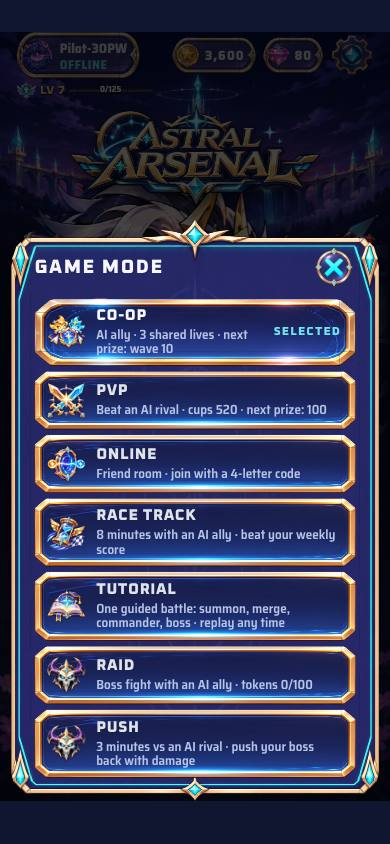
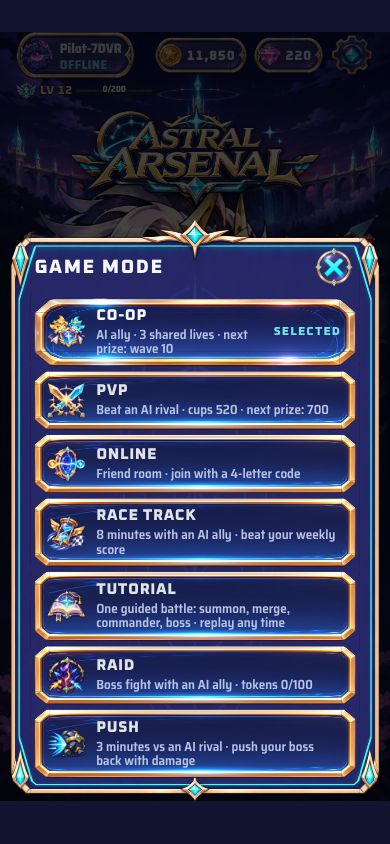
Sửa lượt 2: Push ép cuối trận (K nhân đôi mỗi 12 s từ giây 110), nhãn Push hết đè, mốc cúp kế = mốc chưa đạt + phát bù, rương ×N phát đủ, Raid bậc 2 = 22 000, quầng huy hiệu song sinh; tài liệu, ảnh đã xem
Claude-Session: https://claude.ai/code/session_01KQA7LFBkcdkiPiLcwYs7V2

diff --git a/thap/js/chedo-dd.js b/thap/js/chedo-dd.js
@@ -228,7 +228,19 @@ const CUP = {
     return s;
   },
   ds: () => Object.keys(CUPC.moc).map(Number).sort((a, b) => a - b),
-  ke() { const s = this.st(); return this.ds().find(m => !s.nhan[m]) || 0; },
+  ke() { const s = this.st(); return this.ds().find(m => m > s.max && !s.nhan[m]) || 0; }, // 12/11 lượt 2: mốc CHƯA ĐẠT kế tiếp (trước: mốc chưa nhận thấp nhất → tài khoản được bơm cúp hiện "next prize: 100" dù đang 520 cúp)
+  // phát mọi mốc đã đạt (cúp cao nhất ≥ mốc) mà chưa nhận — ghi cờ trước khi phát
+  phatMoc() {
+    const s = this.st(), ra = { vang: 0, ngoc: 0, the: [], tt: 0 }, moc = [];
+    for (const m of this.ds()) { if (s.max < m || s.nhan[m]) continue; s.nhan[m] = 1; moc.push(m); CD.gop(ra, CD.phat(CUPC.moc[m], 'cdcup' + m, 'cup')); }
+    return { ra, moc };
+  },
+  // phát bù ở HOME: mốc đã vượt mà chưa nhận (cúp tăng không qua trận: bơm thử / gộp hồ sơ máy khác) — trận thường đã phát ở ket()
+  bu() {
+    const s = this.st(); if (!this.ds().some(m => s.max >= m && !s.nhan[m])) return null;
+    const r = this.phatMoc(); KT.luu();
+    return r;
+  },
   muc(c) { let m = CUPC.doKho[0]; for (const x of CUPC.doKho) if (c >= x[0]) m = x; return m; },
   // bộ + cấp thẻ của đối thủ máy theo cúp (bốc bằng deckNgauNhien của game — như deckDoiThu: ≥ 3 ụ gây sát thương, ≤ 1 hỗ trợ)
   doiThu(c) {
@@ -245,8 +257,7 @@ const CUP = {
   ket(thang) {
     const s = this.st(), c0 = s.c;
     s.c = Math.max(0, s.c + (thang ? CUPC.thang : -CUPC.thua)); s.max = Math.max(s.max, s.c);
-    const ra = { vang: 0, ngoc: 0, the: [], tt: 0 }, moc = [];
-    for (const m of this.ds()) { if (s.max < m || s.nhan[m]) continue; s.nhan[m] = 1; moc.push(m); CD.gop(ra, CD.phat(CUPC.moc[m], 'cdcup' + m, 'cup')); }
+    const { ra, moc } = this.phatMoc();
     KT.luu();
     return { d: s.c - c0, c: s.c, ra, moc };
   },
@@ -434,6 +445,15 @@ function boDongDoiMoi() { const d = MOIC.bo.filter(id => SKILLS[id] && G.rosterM
       return r;
     };
     // Rương Trận (thebai.js): PVP = túi thắng (thắng + trúng xác suất tất định mới có thẻ; không thì chỉ vàng) · CO-OP giữ như cũ
+    // 12/11 lượt 2: { ruong: 'thuong' | 'vang', n: 2 } trước chỉ phát 1 rương (KT.moRuong chỉ dùng n cho rương có ô cố định) dù bảng thưởng ghi ×2
+    //  → tách thành n rương riêng cho các bảng thưởng chế độ (mốc cúp 300 / 1 000, Đột Kích bậc 3…); màn kết quả tự hiện OPEN ×N
+    if (typeof CD !== 'undefined' && CD.phat) {
+      const ph = CD.phat;
+      CD.phat = function (ds, khoa, nguon) {
+        const d2 = []; for (const r of ds || []) { const n = r && r.ruong && KTC.ruong[r.ruong] && !KTC.ruong[r.ruong].co ? (r.n | 0) : 0; if (n > 1) for (let i = 0; i < n; i++) d2.push({ ruong: r.ruong }); else d2.push(r); }
+        return ph.call(this, d2, khoa, nguon);
+      };
+    }
     const th = THEBAI.thuong;
     THEBAI.thuong = function (k, m) {
       if (!m || m.tut || m._thuong || G.dd) return th.apply(this, arguments);
@@ -466,6 +486,22 @@ function boDongDoiMoi() { const d = MOIC.bo.filter(id => SKILLS[id] && G.rosterM
       HM.veHome = function () {
         const r = vh.apply(this, arguments);
         try { const b = this.el('hm-best'), nh = b && b.previousElementSibling; if (b) b.textContent = CDUI.so(CUP.st().c); if (nh && nh.dataset.cup !== '1') { nh.dataset.cup = '1'; nh.textContent = 'CUPS'; } } catch (e) { }
+        // phát bù mốc cúp đã vượt mà chưa nhận (chỉ khi đang ở HOME, không có bảng nào mở)
+        try {
+          const s = CUP.st();
+          if (!CUP._buCho && !(G.ban && G.ban.length) && !(G.debug && (G.debug.auto || G.debug.wave || G.debug.mana)) && CUP.ds().some(m => s.max >= m && !s.nhan[m])) {
+            CUP._buCho = setTimeout(() => {
+              CUP._buCho = 0;
+              try {
+                const c = document.getElementById('chon'), p = document.getElementById('tt-phu');
+                if (!c || c.hidden || (G.ban && G.ban.length) || (p && !p.hidden) || (typeof KTUI !== 'undefined' && KTUI._ruong)) return;
+                const x = CUP.bu(); if (!x || !x.moc.length) return;
+                KTUI.nhan(x.ra, 'CUP MILESTONE · ' + CDUI.so(Math.max.apply(null, x.moc)), { phu: (h, k) => SHUI.phuKq(h, k), dong: 'sh-dong' });
+                HM.veHome();
+              } catch (e) { console.error('CUP', e); }
+            }, 900);
+          }
+        } catch (e) { }
         return r;
       };
     }

diff --git a/thap/js/chedo-pu.js b/thap/js/chedo-pu.js
@@ -2,7 +2,7 @@
 //  DCDW: PVP, mỗi người bắn 1 trùm để ĐẨY LÙI; hết giờ ai đẩy trùm về gần điểm xuất phát hơn thì thắng.
 //  Game mình: biến thể PVP đấu máy (bàn + đường PVP, đối thủ theo cúp như PVP — chedo-dd.js CUP):
 //  · Mỗi bên 1 trùm KHÔNG CHẾT đi chậm từ cổng về lõi trên làn của bên đó. Sát thương gây ra ĐẨY LÙI trùm: lùi (px) = sát thương / K(t),
-//    K(t) = PUC.k0 × máu wave(chặng) / máu wave(1) — tăng dần theo đồng hồ (chặng PUC.chang giây), tất định, không Math.random.
+//    K(t) = PUC.k0 × máu wave(chặng) / máu wave(1) × 2^((t − 110) / 12 khi t > 110) — tăng dần theo đồng hồ (chặng PUC.chang giây + ép cuối trận), tất định, không Math.random.
 //  · KHÔNG có quái thường → mana không đến từ diệt quái: mỗi giây mỗi bàn nhận PUC.mana × mana-mỗi-mạng của chặng (đối thủ máy: × hệ số theo cúp).
 //  · 3:00. Hết giờ: trùm bên nào còn XA lõi hơn thì bên đó thắng (bằng nhau: so tổng sát thương đã gây; vẫn bằng: thua). Trùm chạm lõi = thua ngay (mất cả 3 tim).
 //  · Thắng / thua tính CÚP như PVP (+30 / −20) và Rương Trận theo luật túi thắng (thắng + 60% tất định) — đi qua chính đường kết quả PVP;
@@ -14,6 +14,7 @@ const PUC = {
   gio: 180, prep: 4, chang: 12, cap: 4,
   v: 6,                  // tốc độ trùm (px luật / giây): không ai bắn thì ~110 s chạm lõi
   k0: 24,                // sát thương cần để đẩy lùi 1 px ở chặng 1 (giữ trùm đứng yên cần ~144 ST/giây lúc đầu, ~1 480 ở chặng cuối)
+  tang0: 110, tangDoi: 12, // ép cuối trận: từ giây 110, sát thương cần để đẩy 1 px nhân đôi mỗi 12 giây (tới hết giờ ≈ ×57)
   mana: 0.8,             // mana mỗi giây = mana × manaGiet(chặng)
   waveThuong: 10,        // "wave" ghi cho Rương Trận / XP / điểm sự kiện của 1 trận Đẩy Trùm (cố định)
   H: 1e9,                // máu trùm (không bao giờ hết — được hồi đầy mỗi bước)
@@ -32,14 +33,15 @@ const PU = {
     if (this.cho === c) { this.cho = null; return false; }
     return true;
   },
-  K(w) { return PUC.k0 * mauWave(Math.max(1, w)) / mauWave(1); },
+  // 12/11 (lượt 2): sau PUC.tang0 giây, K nhân đôi mỗi PUC.tangDoi giây (tất định theo đồng hồ) → cuối trận bộ nào cũng bị trùm ép dần về lõi, chênh lệch sát thương lộ ra thành chênh quãng đường
+  K(w, t) { return PUC.k0 * mauWave(Math.max(1, w)) / mauWave(1) * Math.pow(2, Math.max(0, (t || 0) - PUC.tang0) / PUC.tangDoi); },
   // % quãng đường còn lại tới lõi của trùm làn i (100 = còn ở cổng)
   con(i) { const d = G.pu, E = d && d.E[i]; if (!E) return 100; const L = G.duong[E.p].len; return Math.max(0, Math.min(100, Math.round((1 - E.s / L) * 1000) / 10)); },
   buoc(dt) {
     const d = G.pu; if (!d || d.t0 == null || G.ketThuc || !G.ban.length) return;
     const t = G.t - d.t0;
     G.wave = 1 + Math.floor(t / PUC.chang); G.tWave = 0; G.cho = 0;
-    const K = this.K(G.wave), ref = Math.round(mauWave(G.wave) * 30 * (1 + G.wave / 35));
+    const K = this.K(G.wave, t), ref = Math.round(mauWave(G.wave) * 30 * (1 + G.wave / 35));
     for (const E of d.E) {
       if (!E || E.chet) continue;
       const st = PUC.H - E.hp; E.hp = E.max = PUC.H; E.maxPct = ref;

diff --git a/tools/thap-kt-cup.js b/tools/thap-kt-cup.js
@@ -24,6 +24,9 @@ let loi = 0; const ok = (c, t) => { console.log((c ? '  ✓ ' : '  ✗ ') + t); 
     const v0 = KT.vang; let x; for (let i = 0; i < 4; i++) x = CUP.ket(true); o.c4 = x.c; o.moc4 = x.moc.join(); o.vang4 = KT.vang - v0;
     CUP.ket(false); CUP.ket(false); const v1 = KT.vang; x = CUP.ket(true); x = CUP.ket(true); o.lai = x.moc.length; o.vangLai = KT.vang - v1; o.c = x.c; o.max = CUP.st().max;
     o.luu = JSON.stringify(JSON.parse(localStorage.getItem('turret_kt')).cd.cup); o.ke = CUP.ke(); o.luot = 'luot' in CD.st();
+    // 12/11 lượt 2: cúp bị bơm (không qua trận) → mốc kế = mốc CHƯA ĐẠT; mốc đã vượt chưa nhận được phát bù đúng 1 lần
+    { const s2 = CUP.st(), giu = JSON.stringify(s2); s2.c = 520; CUP.st(); o.keBom = CUP.ke(); const v = KT.vang, x1 = CUP.bu(), x2 = CUP.bu(); o.bu = x1 && x1.moc.join(); o.buVang = KT.vang - v; o.bu2 = x2; o.keSau = CUP.ke(); Object.assign(s2, JSON.parse(giu)); s2.nhan = JSON.parse(giu).nhan; }
+    o.ru2 = (CD.phat([{ ruong: 'thuong', n: 2 }], 'kt-ru2', 'cup').ru || []).length; o.hh1 = (CD.phat([{ ruong: 'hh', n: 1 }], 'kt-hh1', 'cup').ru || []).length;
     // đối thủ theo cúp
     const bac = (d) => [...new Set(d.map(id => G.rosterMap[id].bac))].sort().join(), dmg = (d) => d.filter(id => SKILLS[id].dmg && SKILLS[id].vai !== 'ht').length;
     const a = CUP.doiThu(0), c = CUP.doiThu(600);
@@ -41,6 +44,8 @@ let loi = 0; const ok = (c, t) => { console.log((c ? '  ✓ ' : '  ✗ ') + t); 
     o.dai = dai; o.pvMax = pvMax; o.pity = pity;
     return o;
   });
+  ok(r.keBom === 700 && r.bu === '200,300,500' && r.buVang === 3000 && r.bu2 === null && r.keSau === 700, 'cúp bơm 520: mốc kế 700 (mốc chưa đạt), phát bù 200/300/500 đúng 1 lần ' + JSON.stringify([r.keBom, r.bu, r.buVang, r.keSau]));
+  ok(r.ru2 === 2 && r.hh1 === 1, 'thưởng { ruong, n: 2 } phát đủ 2 rương (trước chỉ 1); rương có ô cố định (hh) vẫn 1 rương ' + JSON.stringify([r.ru2, r.hh1]));
   ok(r.c0 === 0 && r.thua0 === 0, 'bắt đầu 0 cúp; thua ở 0 cúp vẫn 0 (không âm)');
   ok(r.c4 === 120 && r.moc4 === '100' && r.vang4 === 500, '4 trận thắng = 120 cúp, mốc 100 phát 1 lần (500 vàng + rương) ' + JSON.stringify([r.c4, r.moc4, r.vang4]));
   ok(r.c === 140 && r.max === 140 && r.lai === 0 && r.vangLai === 0 && r.ke === 200, 'thua 2 (−40) rồi thắng 2: 140 cúp, không phát lại mốc 100, mốc kế 200');

diff --git a/thap/js/demkn.js b/thap/js/demkn.js
@@ -54,7 +54,7 @@ const DEMKN = {
   // (trước: mỗi khung đo chữ + viền chữ + tô chữ cho từng ụ). Đặt ảnh đúng lưới điểm ảnh → chữ nét y hệt vẽ trực tiếp.
   ve(ctx, T, B, x, yDay, c, al) {
     // TWIN-FORGED (Twin Anvil song sinh): huy hiệu ảnh loren_songsinh ở góc dưới-phải ô (thay 2 con số nhỏ khó đọc) — không đè số sao (trên) / tấm đếm (giữa đáy)
-    if (T.anv && T.anv.x && !T.st.da && typeof REN !== 'undefined' && REN.img('loren_songsinh')) { const g = ctx.globalAlpha; REN.anhGiua(ctx, 'loren_songsinh', x + c * 0.26, yDay - c * 0.19, c * 0.46, 0, al); /* 12/11: 0,34 → 0,46 ô (người dùng: quá nhỏ) */ ctx.globalAlpha = g; }
+    if (T.anv && T.anv.x && !T.st.da && typeof REN !== 'undefined' && REN.img('loren_songsinh')) { const g = ctx.globalAlpha; { const go = ctx.globalCompositeOperation; ctx.globalCompositeOperation = 'lighter'; REN.anhGiua(ctx, 'loren_songsinh', x + c * 0.26, yDay - c * 0.19, c * 0.66, 0, al * 0.45); ctx.globalCompositeOperation = go; } /* 12/11 lượt 2: quầng sáng = chính ảnh huy hiệu vẽ to hơn, cộng sáng, phía sau (không ảnh mới) */ REN.anhGiua(ctx, 'loren_songsinh', x + c * 0.26, yDay - c * 0.19, c * 0.46, 0, al); /* 12/11: 0,34 → 0,46 ô (người dùng: quá nhỏ) */ ctx.globalAlpha = g; }
     const v = this.lay(T, B); if (!v) return;
     const h = Math.max(9, c * 0.2), m = ctx.getTransform(), k = m.a;
     if (!(k > 0) || Math.abs(m.b) > 1e-6 || Math.abs(m.c) > 1e-6 || Math.abs(m.d - k) > 1e-6 || typeof REN === 'undefined' || !REN.cGet) return this.ve0(ctx, v, x, yDay, h, al);

diff --git a/thap/js/chedo-rd.js b/thap/js/chedo-rd.js
@@ -13,7 +13,7 @@ const RDC = {
   gio: 360, tim: 3, prep: 5, chang: 20, bac: 10, cap: 6,
   ve: 20, tran: 100, vePvp: 5, veCoop: 10, waveCoop: 30,
   // máu trùm theo bậc (số tuyệt đối — chỉnh bằng bot: tools/thap-bot-tran.js --che rd --bac N)
-  hp: [0, 5000, 14000, 45000, 80000, 180000, 400000, 800000, 1250000, 1550000, 1800000],
+  hp: [0, 5000, 22000, 45000, 80000, 180000, 400000, 800000, 1250000, 1550000, 1800000],
   // đợt quái: mỗi RDC.dot giây 1 đợt ở MỖI làn; số con = n0 + ⌊đợt / 2⌋ (trần nMax)
   dot: 12, n0: 4, nMax: 12, cach: 0.9,
   knDau: 40, knNghi: 12,                                       // chiêu trùm: lần đầu sau 40 s, mỗi lần sau nghỉ thêm 12 s (trùm đứng đó cả trận — niệm dày như trùm wave thì bàn đầu trận bị phá sạch)

diff --git a/thap/css/chedo-d.css b/thap/css/chedo-d.css
@@ -90,3 +90,5 @@ html body #wrap #ketqua.dd-tt .kq-ic { content: url(../assets/ua_ic_sk.png) !imp
 .khe-o.dem { border-color: #6fd0ff; } .khe-o.dem b { color: #8fe0ff; }
 .khe-o.san { border-color: #ffd257; box-shadow: 0 0 10px rgba(255, 210, 87, .55); } .khe-o.san b { color: #ffe08a; }
 #ketqua .khe-kq { color: #8fe0ff; } #ketqua .khe-kq.day { color: #ff9a8a; }
+/* ĐẨY TRÙM (12/11 lượt 2): nhãn đồng hồ đưa lên trên dải bộ bài đối thủ của bàn PVP (trước nằm đè lên dải) */
+#pu-chip { top: 10px; }

diff --git a/docs/demo-hop-tuong/TAI-LIEU-GOC.md b/docs/demo-hop-tuong/TAI-LIEU-GOC.md
@@ -101,8 +101,8 @@ Bảng GAME MODE ở HOME (`home.js: HM.CHE` + `chedo-c.js` + `chedo-d.js` + `ch
 | **PVP** | Đấu **đối thủ máy** trên cùng chuỗi wave (hạt giống chung); hết tim trước = thua; đột tử từ wave 30. Bộ đối thủ ≥3 ụ gây sát thương, ≤1 hỗ trợ | Cấp phi công 2 | XP, nhiệm vụ. **CÚP (11/11, theo DCDW):** thắng +30, thua −20 (không âm), lưu `turret_kt.cd.cup`. **Mốc cúp cao nhất đạt lần đầu** (1 lần): 100: 500 vàng + Rương Thường · 200: 1 000 vàng + 20 ngọc · 300: 30 ngọc + Rương Thường×2 · 500: 2 000 vàng + Rương Vàng · 700: 3 000 vàng + 50 ngọc · 1 000: Rương Vàng×2 + 1 Tinh thể Đỏ · 1 300: 5 000 vàng + Rương HH · 1 600: 80 ngọc + Rương HH · 2 000: 8 000 vàng + Rương HH×2 + 2 TT Đỏ · 2 500: 10 000 vàng + Rương HH×3 + 3 TT Đỏ. **Đối thủ máy theo cúp** (`CUPC.doKho`): 0–199: bộ chỉ Trắng / Xanh, cấp thẻ 0, mana mỗi mạng ×0,6 · 200–499: tới Tím, cấp ≤ 2, mana ×0,8 · 500–999: tới Vàng, cấp = trung bình của bạn · ≥ 1 000: mọi bậc · ≥ 2 000: cấp +1. **Túi thắng:** thắng PVP → Rương Trận (thẻ) rơi 60%, tất định theo hạt trận (`CUP.roi`); thua hoặc không trúng: chỉ vàng trận. Chưa có khe rương hẹn giờ / trần 4 rương, chưa có mùa / Crystal Crown | `HM.CHE.pvp`, `deckDoiThu`, `chedo-dd.js: CUPC, CUP` |
 | **ONLINE** | Phòng bạn bè **CO-OP 2 người** qua mã 4 chữ / link; sảnh chờ READY; đồng bộ "lockstep-lite" (mục 13) | Cấp phi công 4 | Như CO-OP | `online/phong.js, dongbo.js` |
 | **ĐƯỜNG ĐUA** (RACE TRACK) — theo DCDW, thêm 11/11 | Bàn CO-OP: bạn + **đồng đội máy dùng cùng bộ bài của bạn**, cấp thẻ thật, **3 tim chung**. Đồng hồ **8:00**, **không chia wave**: quái ra liên tục, 2 làn luân phiên, nhịp `max(0,45; 1,5 − 1,05·t/480)` giây/con (~550 con / lượt); chuỗi quái (loại, làn, trùm nhỏ) sinh bằng `rngHat(hạt TUẦN)` → mọi người cùng chuỗi trong tuần (hạt trận — triệu hồi, kỹ năng — vẫn ngẫu nhiên mỗi lượt). Máu 1 con = `110 × hệ số loại × (1 + 0,015·g) × (1 + (g/270)^4)`, g = số quái đã diệt (con tách ra không tính). **Trùm nhỏ mỗi 120 s** (máu = 25 con thường lúc đó, lọt −2 tim). Mana mỗi mạng tăng theo "chặng" 20 s (như wave thường). **Trần 34 quái sống** lúc sinh: quá trần thì con chưa ra dồn máu + điểm vào con kế. **Điểm** = tổng cân nặng quái đã diệt (thường/bay 1 · tách 2 · khổng lồ 4 · quái tách lớn 5 · trùm nhỏ 30). Hết giờ, hết tim hoặc bỏ cuộc = dừng, **giữ điểm** (hết tim / bỏ cuộc: màn kết quả khung trung tính "RACE OVER", không phải thua). Không ghi kỷ lục wave / Rương Trận / nhiệm vụ theo wave | Sau hướng dẫn | **Mốc ĐIỂM tuần** (1 lần/tuần, đặt lại thứ Hai, ghi cờ trước khi phát): 100: 1 000 vàng + 50 ngọc · 250: 50 ngọc · 400: 2 000 vàng + 1 Tinh thể Đỏ · 550: 60 ngọc + Rương HH · 700: 2 000 vàng + 1 Tinh thể Đỏ · 850: Rương HH×2 + 1 Tinh thể Đỏ. (người dùng duyệt 11/11 19:06). Bảng xếp hạng tuần | `chedo-dd.js: DDC, DD` |
-| **ĐỘT KÍCH** (RAID) — theo DCDW, thêm 12/11 | Bàn + đường CO-OP (chưa có đường tách nhánh riêng): bạn + đồng đội máy, 3 tim chung, **6:00**. **Trùm đứng yên ở cổng ra quái của làn bạn** (không đi, không lọt), dùng chiêu của nó (lần đầu sau 40 s, mỗi lần sau nghỉ thêm 12 s) và **gọi quái** mỗi 12 s ở cả 2 làn (4 con, +1 mỗi 2 đợt, trần 12; máu quái theo chặng 20 s như wave thường). Thắng = trùm hết máu; thua = hết tim hoặc hết giờ. **10 bậc**, trùm xoay theo bậc (12 trùm sẵn có), máu trùm: 5 000 · 14 000 · 45 000 · 80 000 · 180 000 · 400 000 · 800 000 · 1 250 000 · 1 550 000 · 1 800 000; bậc mở lần lượt. Sát thương theo % máu tối đa (Nemesis…) tính trên **máu trùm chuẩn của chặng** (`E.maxPct`), không trên máu bậc. **Vé:** token Raid — thắng PVP +5, CO-OP đạt wave ≥ 30 +10 (1 lần / trận), trần 100; vào tốn 20 (trừ khi trận bắt đầu) | Cấp phi công 6 | **Lần đầu mỗi bậc:** 1: 1 000 vàng + Rương Thường · 2: 1 500 + Thường · 3: 2 000 + 30 ngọc + Thường×2 · 4: 3 000 + Rương Vàng · 5: 4 000 + 50 ngọc + Vàng · 6: 5 000 + HH · 7: 6 000 + 80 ngọc + HH + 1 TT Đỏ · 8: 8 000 + HH×2 + 1 TT · 9: 10 000 + 100 ngọc + HH×2 + 2 TT · 10: 15 000 + HH×3 + 3 TT. **Thắng lại:** 150 vàng × bậc + (2 + ⌊bậc/3⌋) thẻ Xanh. Thua: không thưởng, không hoàn vé. Không ghi kỷ lục wave / Rương Trận / nhiệm vụ | `chedo-rd.js: RDC, RD` |
-| **ĐẨY TRÙM** (PUSH) — theo DCDW, thêm 12/11 | Bàn + đường PVP, đấu **đối thủ máy theo cúp** (như PVP). Mỗi bên **1 trùm không chết** (cùng loại, theo hạt trận) đi 6 px/giây từ cổng về lõi trên làn của bên đó; **sát thương đẩy lùi trùm**: lùi (px) = ST / K, K = 24 × máu wave(chặng) / máu wave(1), chặng 12 giây (K ≈ 24 → ~245 ở cuối trận). **Không có quái thường**; mana: mỗi giây mỗi bàn +0,8 × mana-mỗi-mạng của chặng (đối thủ máy × hệ số theo cúp). Chiêu trùm: lần đầu sau 30 s, mỗi lần sau nghỉ thêm 10 s. **3:00**; hết giờ: trùm bên nào còn XA lõi hơn thắng (bằng nhau: so tổng sát thương; vẫn bằng: thua); **trùm chạm lõi = thua ngay**. Sát thương theo % máu tính trên máu trùm chuẩn của chặng (`E.maxPct`) | Cấp phi công 4 | Như PVP: **cúp +30 / −20**, mốc cúp, **túi thắng** (thắng + 60% tất định → Rương Trận tính như trận tới wave 10), XP, nhiệm vụ PVP, token Raid +5 khi thắng. Không ghi kỷ lục wave PVP | `chedo-pu.js: PUC, PU` |
+| **ĐỘT KÍCH** (RAID) — theo DCDW, thêm 12/11 | Bàn + đường CO-OP (chưa có đường tách nhánh riêng): bạn + đồng đội máy, 3 tim chung, **6:00**. **Trùm đứng yên ở cổng ra quái của làn bạn** (không đi, không lọt), dùng chiêu của nó (lần đầu sau 40 s, mỗi lần sau nghỉ thêm 12 s) và **gọi quái** mỗi 12 s ở cả 2 làn (4 con, +1 mỗi 2 đợt, trần 12; máu quái theo chặng 20 s như wave thường). Thắng = trùm hết máu; thua = hết tim hoặc hết giờ. **10 bậc**, trùm xoay theo bậc (12 trùm sẵn có), máu trùm: 5 000 · 22 000 · 45 000 · 80 000 · 180 000 · 400 000 · 800 000 · 1 250 000 · 1 550 000 · 1 800 000; bậc mở lần lượt. Sát thương theo % máu tối đa (Nemesis…) tính trên **máu trùm chuẩn của chặng** (`E.maxPct`), không trên máu bậc. **Vé:** token Raid — thắng PVP +5, CO-OP đạt wave ≥ 30 +10 (1 lần / trận), trần 100; vào tốn 20 (trừ khi trận bắt đầu) | Cấp phi công 6 | **Lần đầu mỗi bậc:** 1: 1 000 vàng + Rương Thường · 2: 1 500 + Thường · 3: 2 000 + 30 ngọc + Thường×2 · 4: 3 000 + Rương Vàng · 5: 4 000 + 50 ngọc + Vàng · 6: 5 000 + HH · 7: 6 000 + 80 ngọc + HH + 1 TT Đỏ · 8: 8 000 + HH×2 + 1 TT · 9: 10 000 + 100 ngọc + HH×2 + 2 TT · 10: 15 000 + HH×3 + 3 TT. **Thắng lại:** 150 vàng × bậc + (2 + ⌊bậc/3⌋) thẻ Xanh. Thua: không thưởng, không hoàn vé. Không ghi kỷ lục wave / Rương Trận / nhiệm vụ | `chedo-rd.js: RDC, RD` |
+| **ĐẨY TRÙM** (PUSH) — theo DCDW, thêm 12/11 | Bàn + đường PVP, đấu **đối thủ máy theo cúp** (như PVP). Mỗi bên **1 trùm không chết** (cùng loại, theo hạt trận) đi 6 px/giây từ cổng về lõi trên làn của bên đó; **sát thương đẩy lùi trùm**: lùi (px) = ST / K, K = 24 × máu wave(chặng) / máu wave(1), chặng 12 giây (K ≈ 24 → ~245 ở cuối trận). **Không có quái thường**; mana: mỗi giây mỗi bàn +0,8 × mana-mỗi-mạng của chặng (đối thủ máy × hệ số theo cúp). Chiêu trùm: lần đầu sau 30 s, mỗi lần sau nghỉ thêm 10 s. **3:00**; hết giờ: trùm bên nào còn XA lõi hơn thắng (bằng nhau: so tổng sát thương; vẫn bằng: thua); **trùm chạm lõi = thua ngay**. Sát thương theo % máu tính trên máu trùm chuẩn của chặng (`E.maxPct`) | Cấp phi công 4 | Như PVP: **cúp +30 / −20**, mốc cúp, **túi thắng** (thắng + 60% tất định → Rương Trận tính như trận tới wave 10), XP, nhiệm vụ PVP, token Raid +5 khi thắng. Không ghi kỷ lục wave PVP | `chedo-pu.js: PUC, PU` **Ép cuối trận (12/11):** từ giây 110, sát thương cần để đẩy 1 px nhân đôi mỗi 12 giây → không bộ nào ghìm trùm ở cổng tới hết giờ. |
 | **HƯỚNG DẪN** (màn mở đầu chỉ báo trùm wave 10) — một bản riêng (trận `solo` ẩn với bộ + luật cố định của nó, không dùng cấu hình chế độ nào); chơi lại: GAME MODE → **TUTORIAL** hoặc Settings → REPLAY TUTORIAL; xong → nút **PLAY CO-OP** | Trận đầu tiên: bộ cố định Sniper, Gatling, Frost, Tesla, Revolver + chỉ huy REINFORCE; 7 bước (mục tiêu → triệu hồi ×2 → ghép → chạm xem thông tin → chỉ huy → tự chơi → trùm); xong = hạ trùm wave 10. Bỏ qua được | Lần đầu mở game | Tặng ụ **Ice Blade**; mở bậc Trắng + Xanh, CO-OP, Leo Tháp, Thử thách | `huongdan.js: HD`, `sohuu.js: SHC.qua.hd` |
 
 **KHE RƯƠNG (theo DCDW, thêm 12/11 — `thap/js/khe.js`):** Rương Trận của túi thắng PVP / PUSH vào **4 khe ở HOME**; đầy thì không rơi (`CHEST SLOTS FULL`); mỗi lúc 1 rương đếm 15 phút theo giờ máy, mở ngay bằng ngọc ⌈phút còn lại / 3⌉. Rương mốc / nhiệm vụ / SHOP / RAID / CO-OP mở ngay. Lưu `turret_kt.khe`. Chi tiết: `tuvan/che-do-dcdw/THIET-KE.md` §9.

diff --git a/docs/demo-hop-tuong/tuvan/che-do-dcdw/THIET-KE.md b/docs/demo-hop-tuong/tuvan/che-do-dcdw/THIET-KE.md
@@ -86,3 +86,21 @@ Máy phiên cũ còn ~640 MB ổ đĩa (không dựng được bản làm việc
 - **Đã tự quyết:** (1) chỉ loại **Rương Trận** vào khe (đề bài nêu Thường 1 giờ / Vàng 3 giờ nhưng hiện không nguồn thắng trận nào rơi 2 loại đó) — thêm loại sau chỉ cần thêm trường; (2) **CO-OP wave 30 KHÔNG đưa vào khe**: CO-OP đang phát Rương Trận mỗi trận, người dùng đã chốt "CO-OP nhận thưởng không giới hạn như cũ" — đưa vào khe là giảm thưởng CO-OP, cần người dùng quyết; (3) rương đầu hàng **tự bắt đầu đếm** (không cần bấm "start"); rương đã xong chưa mở không chặn rương sau; (4) giá ngọc 1 ngọc / 3 phút.
 - **Chưa làm / cần quyết:** đồng bộ `khe` lên Firebase (hiện đi theo cách gộp chung của `turret_kt`, chưa kiểm 2 máy); chống chỉnh giờ máy (không có); ảnh khung khe riêng (đang dùng khung CSS + ảnh Rương Trận sẵn có).
 - Ảnh: `anh/b4-khe-home.jpg`, `anh/b4-khe-ngoc.jpg`, `anh/b4-khe-mo.jpg`.
+
+## 10. SỬA LƯỢT 2 (12/11) — Push ép cuối trận, mốc cúp, Raid bậc 2, rương ×N
+
+- **PUSH ép cuối trận:** `K(t)` nhân thêm `2^((t − 110) / 12)` khi t > 110 s (`PUC.tang0`, `PUC.tangDoi`; tới hết giờ ≈ ×57), tất định theo đồng hồ. Bot 4 hạt (bạn % còn lại · thắng · chênh % trung bình so với đối thủ):
+
+| Bộ | 0 cúp | 500 cúp | 1 000 cúp |
+|---|---|---|---|
+| Trắng/Xanh +1 | 4/4 · chênh 29,3 | 1/4 · 20,8 | 0/4 · 35,9 |
+| Tím +4 | 4/4 · 50,5 | 3/4 · 12,8 | 1/4 · 15,7 |
+| Vàng +6 | 4/4 · 78,1 | 4/4 · 39,7 | 3/4 · 20,1 |
+| Đỏ +8 | 4/4 · 85,6 | 4/4 · 51,5 | 4/4 · 32,4 |
+
+  Vị trí cuối trận của người chơi: Trắng/Xanh 10–53% · Tím 33–77% · Vàng 72–87% · Đỏ 86–93% (97% chỉ còn khi đối thủ chết trước giây 130). 6/48 trận chênh < 5 điểm. Còn lại: bộ khởi đầu ở 500–1 000 cúp chỉ còn ~10% (sát lõi).
+- **Nhãn PUSH:** đưa lên trên dải bộ bài đối thủ (`#pu-chip { top: 10px }`).
+- **"next prize" của PVP:** KHÔNG phải lỗi luật — tài khoản thử được bơm cúp (cúp tăng không qua trận nên mốc 100–500 chưa phát). Đổi: `CUP.ke()` = mốc CHƯA ĐẠT kế tiếp; mốc đã vượt chưa nhận được **phát bù** khi vào HOME (`CUP.bu()`, mở rương như thường) và ở kết quả trận như cũ.
+- **Rương ×N (lỗi thật, đã sửa):** thưởng `{ ruong: 'thuong' | 'vang', n: 2 }` trước chỉ phát 1 rương dù bảng ghi ×2 (mốc cúp 300 / 1 000, CO-OP wave 20 / 40, Raid bậc 3). Nay phát đủ N rương; kết quả hiện `OPEN ×N`.
+- **RAID bậc 1–3, bộ Trắng/Xanh +1 (4 hạt):** bậc 1 (5 000) thắng 4/4 trong 35–58 s · bậc 2 nâng 14 000 → **22 000**: thắng 3/4 (124–164 s; 1 trận thua còn 3%) · bậc 3 (45 000) thua 4/4 (còn 9–44%).
+- **Icon:** `ic_raid` / `ic_push` hiện đúng ở GAME MODE và bảng RAID (PUSH không có bảng riêng, EVENT không dùng; game không có danh sách tải trước cho icon chế độ — `ic_cup`, `ic_tutorial` cũng tải khi mở). Huy hiệu song sinh thêm quầng = chính ảnh huy hiệu vẽ to 0,66 ô, cộng sáng.
